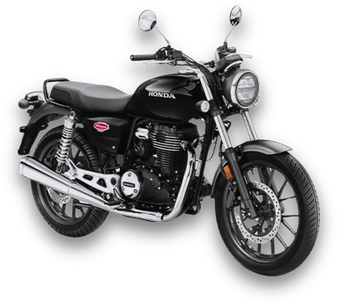
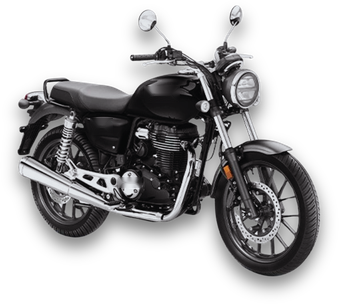
GeoMoto como marca independiente, sin Sorsa ni Honda
Textos sin referencias a Sorsa ni Honda, se quitan sus logos y la foto del
showroom, y se retocan las fotos para borrar los logos Honda de las motos.

Changed region(s): [[0.413, 0.2664, 0.531, 0.3257], [0.3245, 0.5625, 0.413, 0.6217], [0.2655, 0.3849, 0.3245, 0.4441]]

diff --git a/index.html b/index.html
@@ -3,8 +3,8 @@
 <head>
   <meta charset="utf-8">
   <meta name="viewport" content="width=device-width, initial-scale=1">
-  <title>GeoMoto · Garantía Extendida para motos y motokares Honda</title>
-  <meta name="description" content="GeoMoto: Protección Extendida para motos y motokares Honda. Hasta 12 meses o 10 000 km adicionales, repuestos originales y servicio técnico en todo el Perú.">
+  <title>GeoMoto · Garantía Extendida para motos y motokares</title>
+  <meta name="description" content="GeoMoto: Protección Extendida para motos y motokares. Hasta 12 meses o 10 000 km adicionales, repuestos originales y servicio técnico en todo el Perú.">
   <link rel="icon" href="assets/img/isotipo-color.png">
   <link rel="preload" href="assets/fonts/Poppins-SemiBold.woff2" as="font" type="font/woff2" crossorigin>
   <link rel="preload" href="assets/fonts/Poppins-ExtraBold.woff2" as="font" type="font/woff2" crossorigin>
@@ -30,7 +30,7 @@
         <a href="#empresas">Empresas</a>
       </nav>
       <div class="topbar__right">
-        <span class="topbar__link">Disponible en Sorsa Motors</span>
+        <span class="topbar__link">Cobertura en todo el Perú</span>
         <a class="topbar__social" href="https://www.instagram.com/geomoto.pe/" target="_blank" rel="noopener" aria-label="Instagram de GeoMoto"><svg><use href="#i-instagram"/></svg></a>
         <a class="topbar__social" href="https://www.facebook.com/geomoto.pe" target="_blank" rel="noopener" aria-label="Facebook de GeoMoto"><svg><use href="#i-facebook"/></svg></a>
       </div>
@@ -79,13 +79,13 @@
         <article class="slide slide--hero is-active">
           <picture class="slide__photo">
             <source srcset="assets/img/fotos/moto-protegida.webp" type="image/webp">
-            <img src="assets/img/fotos/moto-protegida.jpg" alt="Moto Honda CB190R protegida dentro de una cúpula de luz" width="1308" height="1202" fetchpriority="high">
+            <img src="assets/img/fotos/moto-protegida.jpg" alt="Moto protegida dentro de una cúpula de luz" width="1308" height="1202" fetchpriority="high">
           </picture>
           <div class="container slide__inner">
             <div class="slide__text">
-              <span class="chip chip--accent">Garantía Extendida Honda</span>
-              <h1>Asegura tu inversión Honda</h1>
-              <p>Tu Honda te acompaña todos los días. Nosotros nos encargamos de que siga haciéndolo por más tiempo: hasta 12 meses o 10 000 km adicionales.</p>
+              <span class="chip chip--accent">Garantía Extendida</span>
+              <h1>Asegura tu inversión</h1>
+              <p>Tu moto te acompaña todos los días. Nosotros nos encargamos de que siga haciéndolo por más tiempo: hasta 12 meses o 10 000 km adicionales.</p>
               <a href="#planes" class="btn btn--accent">Conocer más</a>
             </div>
           </div>
@@ -101,7 +101,7 @@
             </div>
             <div class="slide__art">
               <div class="seal seal--small" aria-hidden="true"><b>12</b><span>meses</span></div>
-              <img src="assets/img/fotos/motokar.png" alt="Motokar Honda" class="slide__img" width="308" height="216">
+              <img src="assets/img/fotos/motokar.png" alt="Motokar" class="slide__img" width="308" height="216">
             </div>
           </div>
         </article>
@@ -122,11 +122,11 @@
             <div class="slide__text">
               <span class="chip chip--signal">Deducible S/ 40 + IGV</span>
               <h2 class="slide__title">¿Tu garantía de fábrica ya vence? Pregunta hoy.</h2>
-              <p>Evita gastos imprevistos por fallas mecánicas y amplía la vida útil de tu moto o motokar Honda.</p>
+              <p>Evita gastos imprevistos por fallas mecánicas y amplía la vida útil de tu moto o motokar.</p>
               <a href="#contacto" class="btn btn--primary">Solicítalo aquí</a>
             </div>
             <div class="slide__art">
-              <img src="assets/img/fotos/moto-azul.png" alt="Moto Honda CB azul" class="slide__img" width="424" height="392">
+              <img src="assets/img/fotos/moto-azul.png" alt="Moto azul" class="slide__img" width="424" height="392">
             </div>
           </div>
         </article>
@@ -146,10 +146,10 @@
       <div class="container welcome__inner">
         <div>
           <span class="eyebrow">Bienvenidos a GeoMoto</span>
-          <h2>Servicio de Garantía Extendida para motos y motokares Honda</h2>
+          <h2>Servicio de Garantía Extendida para motos y motokares</h2>
         </div>
         <div>
-          <p>La Garantía Extendida cubre la <strong>rotura mecánica</strong> de tu moto o motokar Honda una vez que termina la garantía de fábrica: el desperfecto repentino e imprevisto de una pieza cubierta que impide su funcionamiento normal.</p>
+          <p>La Garantía Extendida cubre la <strong>rotura mecánica</strong> de tu moto o motokar una vez que termina la garantía de fábrica: el desperfecto repentino e imprevisto de una pieza cubierta que impide su funcionamiento normal.</p>
           <p>Incluye la reparación o el reemplazo de las piezas cubiertas y la mano de obra necesaria, con repuestos originales y técnicos especializados.</p>
         </div>
       </div>
@@ -167,7 +167,7 @@
             </li>
             <li>
               <h3>Mano de obra especializada</h3>
-              <p>Técnicos capacitados en motos y motokares Honda.</p>
+              <p>Técnicos capacitados en motos y motokares.</p>
             </li>
             <li>
               <h3>Repuestos originales</h3>
@@ -207,7 +207,7 @@
               <div class="card__body">
                 <span class="chip chip--accent chip--sm">Más pedido</span>
                 <h3>Garantía Extendida Moto</h3>
-                <p>Hasta 12 meses o 10 000 km adicionales a la garantía de fábrica de tu moto Honda.</p>
+                <p>Hasta 12 meses o 10 000 km adicionales a la garantía de fábrica de tu moto.</p>
                 <p class="card__price">Deducible <b>S/ 40 + IGV</b> por evento</p>
                 <a href="#contacto" class="card__link">Solicítalo aquí <i class="chev chev--right"></i></a>
               </div>
@@ -247,7 +247,7 @@
               <div class="card__media card__media--icon"><svg viewBox="0 0 24 24"><path d="M4 12a8 8 0 0 1 14-5.3"/><path d="M20 12a8 8 0 0 1-14 5.3"/><path d="M18 3v4h-4M6 21v-4h4"/></svg></div>
               <div class="card__body">
                 <h3>Es transferible</h3>
-                <p>Si vendes tu Honda, la garantía puede pasar al nuevo dueño y aumenta su valor de reventa.</p>
+                <p>Si vendes tu moto, la garantía puede pasar al nuevo dueño y aumenta su valor de reventa.</p>
                 <a href="#preguntas" class="card__link">Ver condiciones <i class="chev chev--right"></i></a>
               </div>
             </article>
@@ -256,7 +256,7 @@
               <div class="card__media card__media--icon"><svg viewBox="0 0 24 24"><path d="M12 3l8 3v6c0 5-3.5 8-8 9-4.5-1-8-4-8-9V6z"/><path d="M8.5 12l2.5 2.5 4.5-5"/></svg></div>
               <div class="card__body">
                 <h3>Más vida útil</h3>
-                <p>Atención en talleres autorizados para el correcto funcionamiento y cuidado de tu Honda.</p>
+                <p>Atención en talleres autorizados para el correcto funcionamiento y cuidado de tu vehículo.</p>
                 <a href="#ayuda" class="card__link">Centro de ayuda <i class="chev chev--right"></i></a>
               </div>
             </article>
@@ -329,8 +329,8 @@
         <ol class="steps">
           <li class="step"><span class="step__num">1</span><h3>Avísanos en 3 días</h3><p>Reporta la falla por teléfono o por escrito dentro de los 3 días calendario de detectarla.</p></li>
           <li class="step"><span class="step__num">2</span><h3>Envía tus documentos</h3><p>Boleta de compra, fotos del odómetro, DNI y evidencia de tus mantenimientos en la marca.</p></li>
-          <li class="step"><span class="step__num">3</span><h3>Diagnóstico en taller</h3><p>El taller asignado revisa tu Honda y GeoMoto confirma si la reparación está cubierta.</p></li>
-          <li class="step"><span class="step__num">4</span><h3>Reparamos tu Honda</h3><p>En un máximo de 30 días útiles desde la aprobación (60 si hay que importar repuestos). Pagas solo el deducible.</p></li>
+          <li class="step"><span class="step__num">3</span><h3>Diagnóstico en taller</h3><p>El taller asignado revisa tu vehículo y GeoMoto confirma si la reparación está cubierta.</p></li>
+          <li class="step"><span class="step__num">4</span><h3>Reparamos tu vehículo</h3><p>En un máximo de 30 días útiles desde la aprobación (60 si hay que importar repuestos). Pagas solo el deducible.</p></li>
         </ol>
       </div>
     </section>
@@ -340,7 +340,7 @@
       <div class="container">
         <span class="eyebrow center-block">Más servicios GeoMoto</span>
         <h2 class="section__title">Servicios para tu moto</h2>
-        <p class="section__lead center">Además de tu garantía extendida, te ayudamos a cuidar tu Honda todos los días.</p>
+        <p class="section__lead center">Además de tu garantía extendida, te ayudamos a cuidar tu moto todos los días.</p>
         <ol class="index-list">
           <li>
             <span class="index-list__num">01</span>
@@ -362,7 +362,7 @@
             <span class="index-list__num">03</span>
             <div class="index-list__body">
               <h3>Mantenimiento</h3>
-              <p>Servicio preventivo y correctivo para que tu Honda siga funcionando como el primer día.</p>
+              <p>Servicio preventivo y correctivo para que tu moto siga funcionando como el primer día.</p>
             </div>
             <a href="#contacto" class="index-list__link" data-chat="servicios" data-servicio="Mantenimiento">Consultar <svg class="arrow" viewBox="0 0 24 24" aria-hidden="true"><path d="M5 12h14M13 6l6 6-6 6"/></svg></a>
           </li>
@@ -391,18 +391,20 @@
     <!-- Nosotros -->
     <section class="section" id="nosotros">
       <div class="container about">
-        <div class="about__media">
-          <img src="assets/img/fotos/showroom.jpg" alt="Showroom Honda de Sorsa Motors" width="612" height="612">
-          <div class="about__badge">
-            <span>Con el respaldo de</span>
-            <img src="assets/img/fotos/sorsa-logo.png" alt="Sorsa Motors" width="381" height="223">
-          </div>
+        <div class="about__brand" aria-hidden="true">
+          <svg class="about__route" viewBox="0 0 400 400">
+            <path d="M40 290 C 140 290 120 200 210 200 S 300 100 360 66"/>
+            <circle cx="40" cy="290" r="14"/>
+            <circle cx="360" cy="66" r="14"/>
+          </svg>
+          <img src="assets/img/isotipo-blanco.png" alt="" width="399" height="486" class="about__iso">
+          <p class="about__tagline">Tranquilidad y respaldo en cada ruta.</p>
         </div>
         <div class="about__text">
           <span class="eyebrow">Nosotros</span>
           <h2>Un amigo que sabe de motos, no un banco</h2>
-          <p><strong>GeoMoto S.A.C.</strong> es una empresa peruana que presta servicios de programas de garantía extendida. Diseñamos la Protección Extendida para motos y motokares Honda que se ofrece en Sorsa Motors, concesionario Honda.</p>
-          <p>Trabajamos para mototaxistas, repartidores, comerciantes, agricultores, estudiantes y familias que dependen de su Honda para trabajar y moverse. Nuestra promesa es simple: si tu Honda tiene una falla mecánica cubierta, no pagas la reparación de tu bolsillo.</p>
+          <p><strong>GeoMoto S.A.C.</strong> es una empresa peruana que presta servicios de programas de garantía extendida. Diseñamos y operamos la Protección Extendida para motos y motokares, con talleres autorizados en todo el Perú.</p>
+          <p>Trabajamos para mototaxistas, repartidores, comerciantes, agricultores, estudiantes y familias que dependen de su moto o motokar para trabajar y moverse. Nuestra promesa es simple: si tu vehículo tiene una falla mecánica cubierta, no pagas la reparación de tu bolsillo.</p>
           <div class="stats">
             <div><b>12</b><span>meses adicionales</span></div>
             <div><b>10 000</b><span>km adicionales</span></div>
@@ -460,7 +462,7 @@
             <li><a href="#contacto" data-chat="falla"><span><small>Reportar una falla</small>Avísanos en máximo 3 días</span><svg class="arrow" viewBox="0 0 24 24" aria-hidden="true"><path d="M5 12h14M13 6l6 6-6 6"/></svg></a></li>
             <li><a href="#cobertura"><span><small>Coberturas</small>Ver qué cubre mi garantía</span><svg class="arrow" viewBox="0 0 24 24" aria-hidden="true"><path d="M5 12h14M13 6l6 6-6 6"/></svg></a></li>
             <li><a href="#como-usar"><span><small>Procedimiento</small>Cómo usar mi garantía</span><svg class="arrow" viewBox="0 0 24 24" aria-hidden="true"><path d="M5 12h14M13 6l6 6-6 6"/></svg></a></li>
-            <li><a href="#contacto" data-chat="transferencia"><span><small>Transferencia</small>Vendí mi Honda</span><svg class="arrow" viewBox="0 0 24 24" aria-hidden="true"><path d="M5 12h14M13 6l6 6-6 6"/></svg></a></li>
+            <li><a href="#contacto" data-chat="transferencia"><span><small>Transferencia</small>Vendí mi moto</span><svg class="arrow" viewBox="0 0 24 24" aria-hidden="true"><path d="M5 12h14M13 6l6 6-6 6"/></svg></a></li>
           </ul>
           <a href="#preguntas" class="btn btn--primary">Más consultas</a>
         </div>
@@ -474,10 +476,10 @@
         <div class="faq">
           <details><summary>¿Es lo mismo que un seguro?</summary><p>No. La Garantía Extendida cubre roturas mecánicas de las piezas cubiertas. No cubre choques, robo, accidentes ni daños externos.</p></details>
           <details><summary>¿Cuándo empieza mi cobertura?</summary><p>Al día siguiente de que vence la garantía de fábrica, y dura hasta 12 meses o 10 000 km adicionales, lo que ocurra primero. El precio del servicio se paga completo para activar la cobertura.</p></details>
-          <details><summary>¿Qué vehículos pueden acceder?</summary><p>Motos y motokares Honda nuevos, adquiridos en Sorsa Motors, que cumplan las condiciones de antigüedad y kilometraje del certificado.</p></details>
+          <details><summary>¿Qué vehículos pueden acceder?</summary><p>Motos y motokares nuevos que cumplan las condiciones de antigüedad y kilometraje del certificado.</p></details>
           <details><summary>¿Cuánto pago cuando uso la garantía?</summary><p>Un deducible de S/ 40 + IGV por cada evento. La reparación cubierta va por cuenta de GeoMoto.</p></details>
           <details><summary>¿Qué debo hacer para no perder la cobertura?</summary><p>Cumplir los mantenimientos del manual en la marca, cuidar el nivel de aceite y la temperatura del motor, y reportar cualquier falla dentro de los 3 días calendario.</p></details>
-          <details><summary>¿Puedo transferir la garantía si vendo mi Honda?</summary><p>Sí. Avísanos dentro de los 7 días calendario de la venta. El nuevo dueño paga el cargo de transferencia y presenta la boleta de compra y una copia del certificado. La garantía no se puede pasar a otro vehículo.</p></details>
+          <details><summary>¿Puedo transferir la garantía si vendo mi moto?</summary><p>Sí. Avísanos dentro de los 7 días calendario de la venta. El nuevo dueño paga el cargo de transferencia y presenta la boleta de compra y una copia del certificado. La garantía no se puede pasar a otro vehículo.</p></details>
           <details><summary>¿Dónde reparan mi moto?</summary><p>En el centro de servicio que asigna GeoMoto, con técnicos capacitados y repuestos originales, en todo el Perú.</p></details>
         </div>
       </div>
@@ -495,7 +497,7 @@
           <ol class="next">
             <li><span>1</span><div><strong>Recibimos tu solicitud</strong>Llega directo al equipo de GeoMoto.</div></li>
             <li><span>2</span><div><strong>Un asesor te contacta</strong>Por llamada o correo, para resolver tus dudas.</div></li>
-            <li><span>3</span><div><strong>Activas tu protección</strong>Tu Honda queda cubierta con su certificado.</div></li>
+            <li><span>3</span><div><strong>Activas tu protección</strong>Tu moto queda cubierta con su certificado.</div></li>
           </ol>
 
           <ul class="contact-links">
@@ -583,7 +585,7 @@
             <div class="form__group" data-for="cotizar falla">
               <div class="form__row">
                 <div class="field">
-                  <span class="field__label" id="l-vehiculo">Vehículo Honda <span class="req" aria-hidden="true">*</span></span>
+                  <span class="field__label" id="l-vehiculo">Vehículo <span class="req" aria-hidden="true">*</span></span>
                   <div class="segmented" role="radiogroup" aria-labelledby="l-vehiculo">
                     <label><input type="radio" name="vehiculo" value="Moto" checked><span>Moto</span></label>
                     <label><input type="radio" name="vehiculo" value="Motokar"><span>Motokar</span></label>
@@ -593,7 +595,7 @@
                   <label for="f-modelo">Modelo <span class="opt">Opcional</span></label>
                   <div class="field__control">
                     <svg class="field__icon" viewBox="0 0 24 24" aria-hidden="true"><circle cx="5.5" cy="16.5" r="3.5"/><circle cx="18.5" cy="16.5" r="3.5"/><path d="M5.5 16.5L10 9h5l3.5 7.5"/></svg>
-                    <input id="f-modelo" type="text" name="modelo" placeholder="Ej.: XR150L">
+                    <input id="f-modelo" type="text" name="modelo" placeholder="Marca y modelo">
                   </div>
                 </div>
               </div>
@@ -687,14 +689,9 @@
           <a class="footer__icon-link" href="https://www.facebook.com/geomoto.pe" target="_blank" rel="noopener"><svg><use href="#i-facebook"/></svg>/geomoto.pe</a>
         </div>
       </div>
-      <div class="footer__partners">
-        <span>Disponible en</span>
-        <img src="assets/img/fotos/sorsa-logo.png" alt="Sorsa Motors" width="381" height="223" class="footer__sorsa">
-        <img src="assets/img/fotos/honda-logo.png" alt="Honda" width="400" height="321" class="footer__honda">
-      </div>
       <div class="footer__bottom">
-        <p>© <span id="year">2026</span> GeoMoto S.A.C. · Garantía Extendida para motos y motokares Honda.</p>
-        <p>Aplican términos y condiciones. La cobertura se rige por el Certificado Individual de Garantía Extendida para motos Honda.</p>
+        <p>© <span id="year">2026</span> GeoMoto S.A.C. · Garantía Extendida para motos y motokares.</p>
+        <p>Aplican términos y condiciones. La cobertura se rige por el Certificado Individual de Garantía Extendida.</p>
       </div>
     </div>
   </footer>

diff --git a/css/styles.css b/css/styles.css
@@ -681,20 +681,42 @@ a { color: var(--turquesa-texto); }
 
 /* Nosotros */
 .about { display: grid; grid-template-columns: 1fr 1.1fr; gap: var(--space-5); align-items: center; }
-.about__media { position: relative; }
-.about__media > img { border-radius: var(--radius-lg); aspect-ratio: 1; object-fit: cover; width: 100%; }
-.about__badge {
-  position: absolute;
-  right: -20px;
-  bottom: 30px;
-  background: var(--fondo);
-  border-radius: var(--radius-md);
-  padding: 14px 20px;
-  box-shadow: var(--shadow);
-  text-align: center;
+/* Panel de marca: isotipo con la línea de ruta del manual */
+.about__brand {
+  position: relative;
+  aspect-ratio: 1;
+  border-radius: var(--radius-lg);
+  background: var(--azul-geo);
+  overflow: hidden;
+  display: grid;
+  place-items: center;
 }
-.about__badge span { font-size: 12px; color: var(--texto-suave); font-weight: 600; }
-.about__badge img { width: 110px; margin: 4px auto 0; }
+.about__brand::before {
+  content: "";
+  position: absolute;
+  inset: 0;
+  background-image:
+    radial-gradient(circle, rgba(0,175,193,.28) 3px, transparent 4px),
+    linear-gradient(90deg, rgba(0,175,193,.12) 1px, transparent 1px),
+    linear-gradient(rgba(0,175,193,.12) 1px, transparent 1px);
+  background-size: 64px 64px;
+  background-position: 32px 32px, 32px 0, 0 32px;
+}
+.about__route { position: absolute; inset: 0; width: 100%; height: 100%; }
+.about__route path { fill: none; stroke: var(--turquesa-ruta); stroke-width: 10; stroke-linecap: round; stroke-dasharray: 2 18; }
+.about__route circle { fill: var(--azul-geo); stroke: #fff; stroke-width: 7; }
+.about__iso { position: relative; width: 38%; filter: drop-shadow(0 16px 30px rgba(0,0,0,.3)); }
+.about__tagline {
+  position: absolute;
+  left: 0;
+  right: 0;
+  bottom: 28px;
+  margin: 0;
+  text-align: center;
+  font-family: var(--font-titulo);
+  font-weight: 700;
+  color: #fff;
+}
 .about__text p { color: var(--texto-suave); font-size: 1.05rem; }
 .about__text strong { color: var(--azul-geo); }
 .stats {
@@ -1205,19 +1227,6 @@ a { color: var(--turquesa-texto); }
 .footer__grid a,
 .footer__grid span { display: block; color: var(--texto-claro); text-decoration: none; margin-bottom: 10px; }
 .footer__grid a:hover { color: var(--turquesa-ruta); }
-.footer__partners {
-  display: flex;
-  align-items: center;
-  gap: var(--space-3);
-  margin-top: var(--space-4);
-  padding: var(--space-2) var(--space-3);
-  background: #fff;
-  border-radius: var(--radius-md);
-  width: fit-content;
-}
-.footer__partners span { color: var(--texto-suave); font-size: .85rem; font-weight: 600; }
-.footer__sorsa { height: 40px; width: auto; }
-.footer__honda { height: 34px; width: auto; }
 .footer__bottom {
   margin-top: var(--space-4);
   padding-top: var(--space-3);
@@ -1458,7 +1467,6 @@ a { color: var(--turquesa-texto); }
   .proof { grid-template-columns: 1fr; gap: var(--space-4); }
   .steps { grid-template-columns: repeat(2, 1fr); row-gap: var(--space-4); }
   .steps::before { display: none; }
-  .about__badge { right: 16px; }
   .help__media { min-height: 260px; }
   .footer__grid { grid-template-columns: 1fr 1fr; }
   .help-strip__inner { flex-wrap: wrap; }
@@ -1502,7 +1510,6 @@ a { color: var(--turquesa-texto); }
   .trust { gap: 8px 16px; }
   .form__row { grid-template-columns: 1fr; }
   .footer__grid { grid-template-columns: 1fr; gap: var(--space-3); }
-  .footer__partners { flex-wrap: wrap; }
   .assist__bubble { display: none; }
   .chat { right: 16px; bottom: 90px; height: calc(100vh - 110px); }
   .help-strip__actions .btn { flex: 1; }

diff --git a/js/main.js b/js/main.js
@@ -346,20 +346,20 @@ const COMUNES = [
 
 const POR_MOTIVO = {
   cotizar: [
-    { key: 'Vehículo', ask: '¿Tu Honda es moto o motokar?', options: ['Moto', 'Motokar'] },
+    { key: 'Vehículo', ask: '¿Tu vehículo es moto o motokar?', options: ['Moto', 'Motokar'] },
     { key: 'Modelo', ask: '¿Qué modelo es? Si no lo sabes, toca «Omitir».', type: 'text', optional: true },
   ],
   falla: [
-    { key: 'Modelo', ask: '¿Qué modelo de Honda tienes?', type: 'text' },
+    { key: 'Modelo', ask: '¿Qué marca y modelo es tu vehículo?', type: 'text' },
     { key: 'Falla', ask: 'Cuéntanos qué falla tiene y desde cuándo.', type: 'text' },
   ],
   transferencia: [
-    { key: 'Modelo', ask: '¿Qué modelo de Honda vendiste o compraste?', type: 'text' },
+    { key: 'Modelo', ask: '¿Qué marca y modelo vendiste o compraste?', type: 'text' },
     { key: 'Fecha de venta', ask: '¿En qué fecha fue la venta?', type: 'text' },
   ],
   servicios: [
     { key: 'Servicio', ask: '¿Qué servicio te interesa?', options: ['Rastreo GPS', 'Accesorios y repuestos', 'Mantenimiento'] },
-    { key: 'Vehículo', ask: '¿Tu Honda es moto o motokar?', options: ['Moto', 'Motokar'] },
+    { key: 'Vehículo', ask: '¿Tu vehículo es moto o motokar?', options: ['Moto', 'Motokar'] },
     { key: 'Consulta', ask: '¿Algo más que debamos saber? Es opcional.', type: 'text', optional: true },
   ],
   concesionario: [
@@ -424,7 +424,7 @@ async function startChat(motivo, servicio) {
   state = { motivo: null, steps: [], i: 0, data: {} };
   setOptions([]);
   setInput(false);
-  await botSay('¡Hola! Soy el asistente de GeoMoto. Te ayudo con la Garantía Extendida para tu moto o motokar Honda.');
+  await botSay('¡Hola! Soy el asistente de GeoMoto. Te ayudo con la Garantía Extendida para tu moto o motokar.');
   if (motivo && MOTIVOS[motivo]) return chooseMotivo(motivo, servicio);
   await botSay('¿En qué te podemos ayudar?');
   setOptions(Object.entries(MOTIVOS).map(([k, label]) => ({ label, onClick: () => chooseMotivo(k) })));
